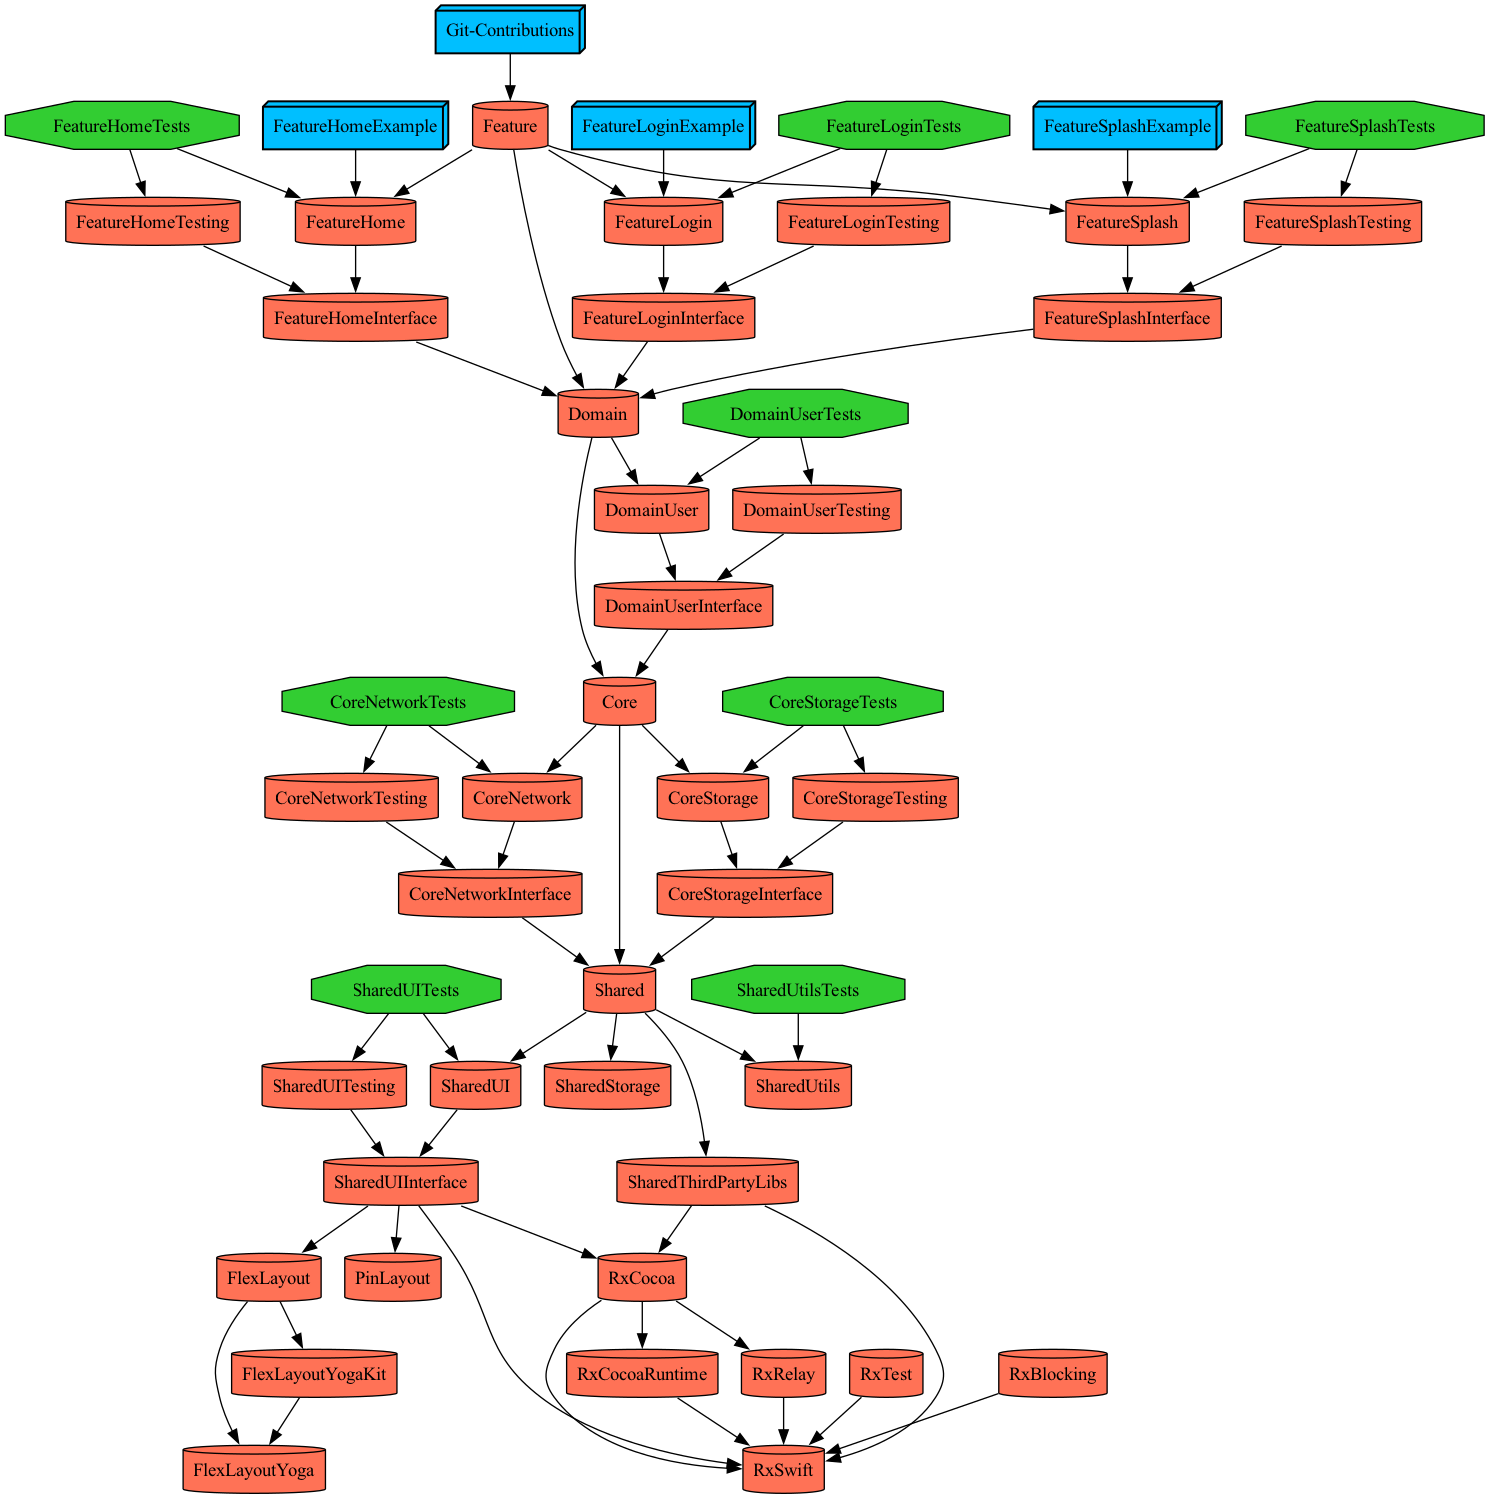
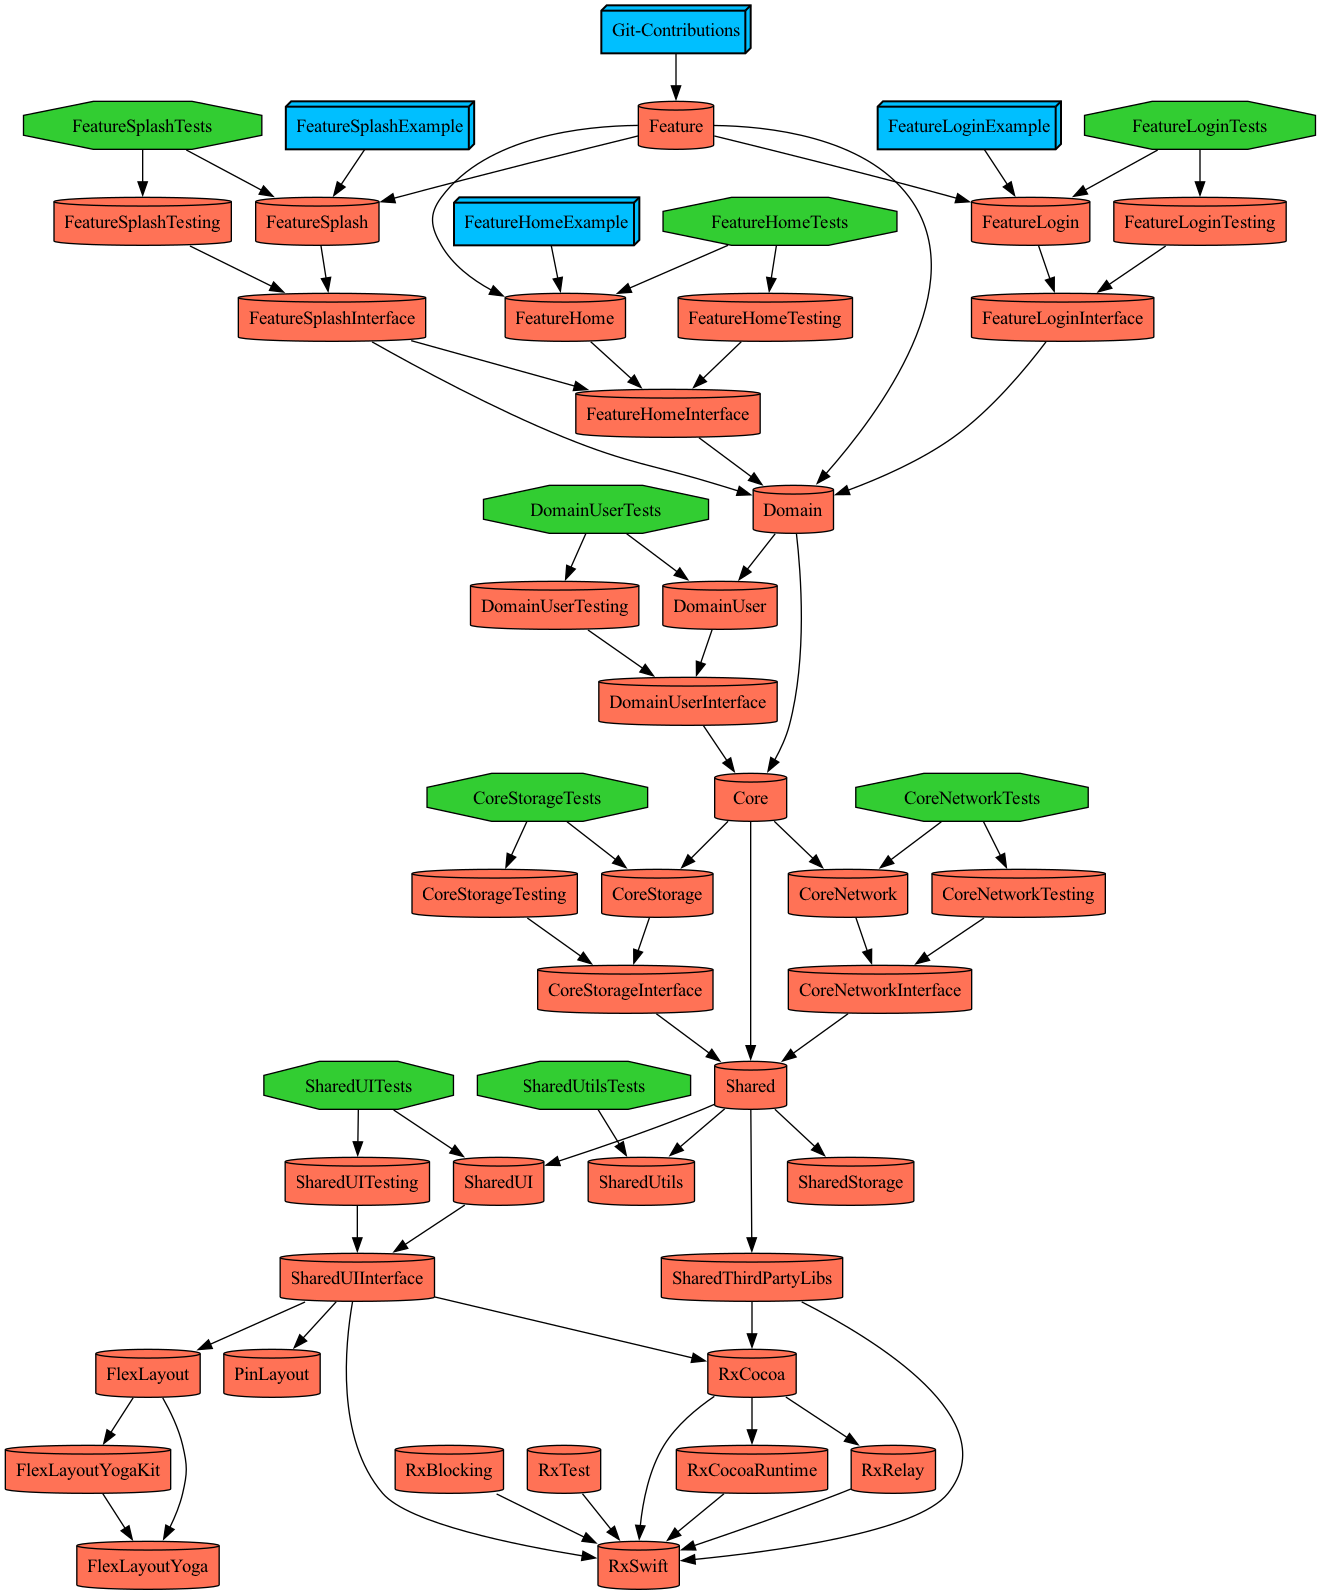
# Dependency 수정 Splash 이후 메인화면 진입 할 때 SplashCoordinator에서 TabBar 생성

Changed region(s): [[0.0, 0.0, 1.0, 1.0]]

diff --git a/Projects/Feature/Splash/Project.swift b/Projects/Feature/Splash/Project.swift
@@ -49,7 +49,8 @@ let project: Project = .makeModule(
             interface: .splash,
             .init(
                 dependencies: [
-                    .domain
+                    .domain,
+                    .feature(interface: .home)
                 ]
             )
         )
